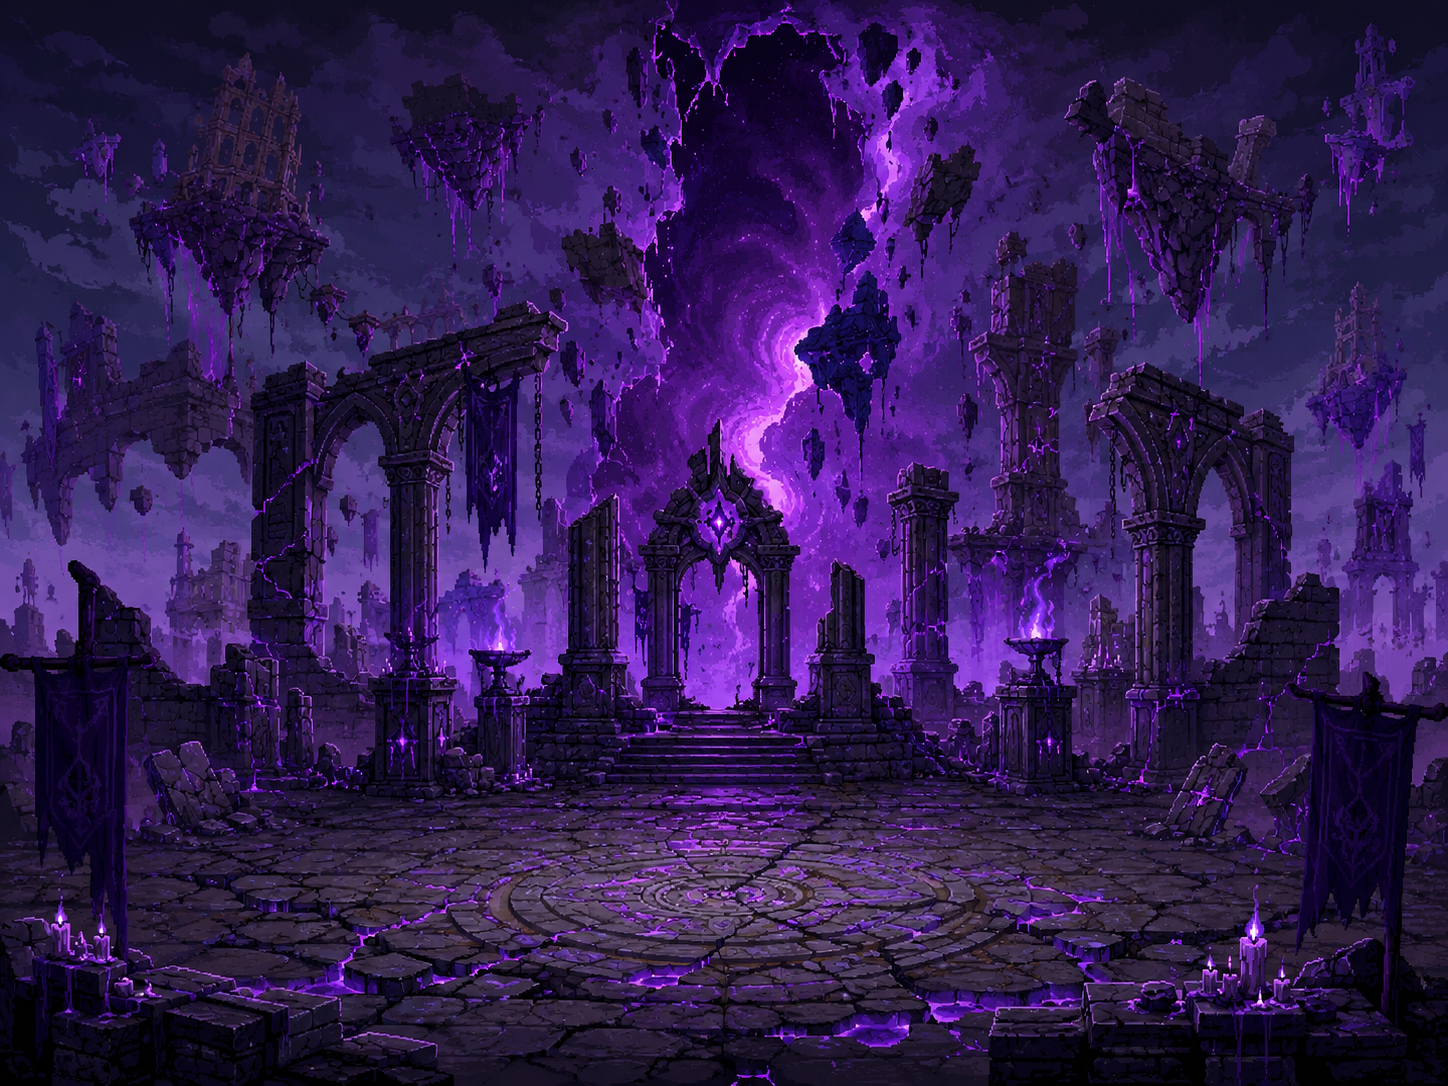
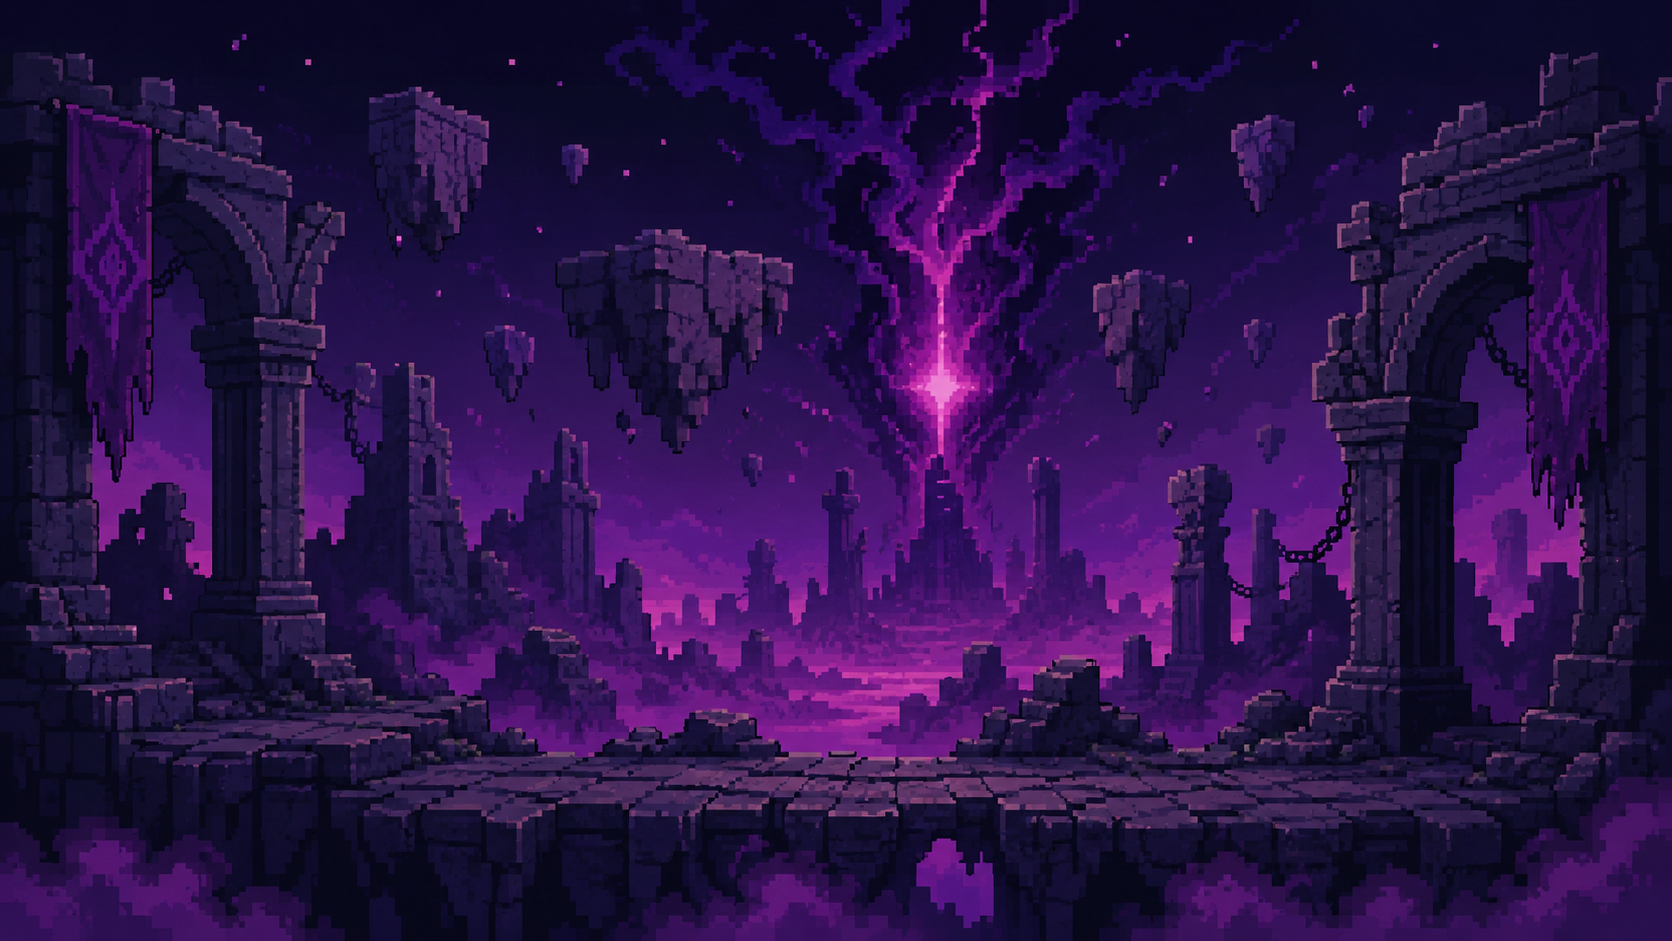
graphics polish

diff --git a/src/game/core/GamePanel.java b/src/game/core/GamePanel.java
@@ -19,11 +19,13 @@ import game.tile.TileManager;
 import game.ui.UI;
 
 import javax.swing.JPanel;
+import javax.imageio.ImageIO;
 import java.awt.Color;
 import java.awt.Dimension;
 import java.awt.Graphics;
 import java.awt.Graphics2D;
 import java.awt.Rectangle;
+import java.awt.image.BufferedImage;
 import java.util.ArrayList;
 import java.util.Random;
 import java.io.*;
@@ -67,6 +69,14 @@ public class GamePanel extends JPanel implements Runnable {
     public StoryManager storyManager = new StoryManager();
     private final String saveFileName = "save.dat";
     private int pendingStoryClassType = 0;
+    private BufferedImage bossArenaImage;
+    private BufferedImage portalSpriteSheet;
+    private BufferedImage[] portalFrames;
+    private int portalFrameIndex = 0;
+    private int portalFrameCounter = 0;
+    private static final int PORTAL_FRAME_COUNT = 8;
+    private static final int PORTAL_FRAME_DELAY = 6;
+    private ArrayList<BossStageDecoration> bossStageDecorations = new ArrayList<>();
 
     public ArrayList<Particle> particleList = new ArrayList<>();
     public Sound music = new Sound();
@@ -101,14 +111,169 @@ public class GamePanel extends JPanel implements Runnable {
         this.setFocusable(true); 
 
         gameState = titleState;
+        loadBossArenaImage();
+        loadPortalImage();
+        loadBossStageDecorations();
         loadBestScore();
 
         playMusic(6);
     }
 
+    private static class BossStageDecoration {
+        BufferedImage image;
+        int worldX;
+        int worldY;
+        int drawWidth;
+        int drawHeight;
+
+        BossStageDecoration(BufferedImage image, int worldX, int worldY, int drawWidth, int drawHeight) {
+            this.image = image;
+            this.worldX = worldX;
+            this.worldY = worldY;
+            this.drawWidth = drawWidth;
+            this.drawHeight = drawHeight;
+        }
+    }
+
     public void startGameThread() {
         gameThread = new Thread(this);
         gameThread.start(); 
+    }
+
+    private void loadBossArenaImage() {
+        try (InputStream is = getClass().getResourceAsStream("/res/boss_stage/boss_arena.png")) {
+            if (is != null) {
+                bossArenaImage = ImageIO.read(is);
+            }
+        } catch (IOException e) {
+            bossArenaImage = null;
+        }
+    }
+
+    private void loadPortalImage() {
+        try (InputStream is = getClass().getResourceAsStream("/res/portal/portal_vortex_8frame.png")) {
+            if (is != null) {
+                portalSpriteSheet = ImageIO.read(is);
+                if (portalSpriteSheet != null) {
+                    slicePortalSpriteSheet();
+                }
+            } else {
+                System.out.println("Warning: could not load portal sprite sheet /res/portal/portal_vortex_8frame.png");
+            }
+        } catch (IOException e) {
+            System.out.println("Warning: could not load portal sprite sheet /res/portal/portal_vortex_8frame.png");
+            portalSpriteSheet = null;
+        }
+
+        if (portalFrames == null || portalFrames.length == 0) {
+            loadPortalFallbackFrames();
+        }
+    }
+
+    private void slicePortalSpriteSheet() {
+        if (portalSpriteSheet.getWidth() % PORTAL_FRAME_COUNT != 0) {
+            System.out.println("Warning: portal sprite sheet width is not divisible by 8");
+        }
+
+        int frameWidth = portalSpriteSheet.getWidth() / PORTAL_FRAME_COUNT;
+        int frameHeight = portalSpriteSheet.getHeight();
+        if (frameWidth <= 0 || frameHeight <= 0) {
+            portalFrames = null;
+            return;
+        }
+
+        portalFrames = new BufferedImage[PORTAL_FRAME_COUNT];
+        for (int i = 0; i < PORTAL_FRAME_COUNT; i++) {
+            portalFrames[i] = portalSpriteSheet.getSubimage(i * frameWidth, 0, frameWidth, frameHeight);
+        }
+        portalFrameIndex = 0;
+        portalFrameCounter = 0;
+    }
+
+    private void loadPortalFallbackFrames() {
+        BufferedImage[] frames = new BufferedImage[PORTAL_FRAME_COUNT];
+
+        for (int i = 0; i < frames.length; i++) {
+            String path = "/res/portal/portal_vortex_frame_" + (i + 1) + ".png";
+            try (InputStream is = getClass().getResourceAsStream(path)) {
+                if (is == null) {
+                    System.out.println("Warning: could not load portal frame " + path);
+                    portalFrames = null;
+                    return;
+                }
+                frames[i] = ImageIO.read(is);
+                if (frames[i] == null) {
+                    System.out.println("Warning: could not read portal frame " + path);
+                    portalFrames = null;
+                    return;
+                }
+            } catch (IOException e) {
+                System.out.println("Warning: could not load portal frame " + path);
+                portalFrames = null;
+                return;
+            }
+        }
+
+        portalFrames = frames;
+        portalFrameIndex = 0;
+        portalFrameCounter = 0;
+    }
+
+    private void loadBossStageDecorations() {
+        bossStageDecorations.clear();
+
+        addBossStageDecoration("12_void_portal_gate.png", 13, 3, 4, 4);
+        addBossStageDecoration("11_ritual_altar_platform.png", 11, 5, 7, 4);
+        addBossStageDecoration("06_hanging_banner.png", 5, 2, 2, 3);
+        addBossStageDecoration("06_hanging_banner.png", 23, 2, 2, 3);
+        addBossStageDecoration("07_chain_fence.png", 9, 3, 3, 1);
+        addBossStageDecoration("07_chain_fence.png", 18, 3, 3, 1);
+        addBossStageDecoration("07_chain_fence.png", 11, 27, 4, 1);
+        addBossStageDecoration("04_purple_crystal_cluster.png", 2, 13, 2, 2);
+        addBossStageDecoration("04_purple_crystal_cluster.png", 26, 14, 2, 2);
+        addBossStageDecoration("05_void_brazier.png", 4, 4, 1, 2);
+        addBossStageDecoration("05_void_brazier.png", 25, 4, 1, 2);
+        addBossStageDecoration("05_void_brazier.png", 5, 25, 1, 2);
+        addBossStageDecoration("05_void_brazier.png", 24, 25, 1, 2);
+        addBossStageDecoration("01_broken_pillar_damaged.png", 3, 6, 2, 3);
+        addBossStageDecoration("02_stone_column.png", 25, 6, 2, 3);
+        addBossStageDecoration("03_broken_pedestal.png", 4, 23, 2, 2);
+        addBossStageDecoration("08_rubble_pile.png", 3, 25, 2, 1);
+        addBossStageDecoration("08_rubble_pile.png", 25, 23, 2, 1);
+        addBossStageDecoration("09_rune_tile.png", 12, 8, 1, 1);
+        addBossStageDecoration("10_void_crack_tile.png", 17, 9, 1, 1);
+        addBossStageDecoration("13_stone_stairs.png", 13, 24, 4, 2);
+        addBossStageDecoration("14_floor_tile_plain.png", 8, 22, 1, 1);
+        addBossStageDecoration("15_floor_tile_cracked.png", 21, 22, 1, 1);
+        addBossStageDecoration("16_floor_tile_gem.png", 15, 10, 1, 1);
+        addBossStageDecoration("17_floor_tile_rough.png", 6, 12, 1, 1);
+        addBossStageDecoration("18_floor_tile_brick.png", 23, 12, 1, 1);
+    }
+
+    private void addBossStageDecoration(String fileName, int tileX, int tileY, int tileW, int tileH) {
+        BufferedImage image = loadBossStageDecorationImage(fileName);
+        if (image == null) return;
+
+        bossStageDecorations.add(new BossStageDecoration(
+                image,
+                tileX * tileSize,
+                tileY * tileSize,
+                tileW * tileSize,
+                tileH * tileSize));
+    }
+
+    private BufferedImage loadBossStageDecorationImage(String fileName) {
+        String path = "/res/boss_stage/decor/" + fileName;
+        try (InputStream is = getClass().getResourceAsStream(path)) {
+            if (is == null) {
+                System.out.println("Warning: could not load boss stage decoration " + path);
+                return null;
+            }
+            return ImageIO.read(is);
+        } catch (IOException e) {
+            System.out.println("Warning: could not load boss stage decoration " + path);
+            return null;
+        }
     }
 
     @Override
@@ -243,6 +408,8 @@ public class GamePanel extends JPanel implements Runnable {
 
             // Enter the portal after all monsters are gone.
             if (monsterList.isEmpty()) {
+                updatePortalAnimation();
+
                 Rectangle doorWorldHitbox = new Rectangle(20 * tileSize, 20 * tileSize, tileSize * 2, tileSize);
                 
                 if (player.getBounds().intersects(doorWorldHitbox)) {
@@ -257,6 +424,24 @@ public class GamePanel extends JPanel implements Runnable {
         }
     }
 
+    private void updatePortalAnimation() {
+        if (portalFrames == null || portalFrames.length == 0) return;
+
+        portalFrameCounter++;
+        if (portalFrameCounter >= PORTAL_FRAME_DELAY) {
+            portalFrameCounter = 0;
+            portalFrameIndex = (portalFrameIndex + 1) % portalFrames.length;
+        }
+    }
+
+    private BufferedImage getCurrentPortalFrame() {
+        if (portalFrames == null || portalFrames.length == 0) return null;
+        if (portalFrameIndex < 0 || portalFrameIndex >= portalFrames.length) {
+            portalFrameIndex = 0;
+        }
+        return portalFrames[portalFrameIndex];
+    }
+
     @Override
     public void paintComponent(Graphics g) {
         super.paintComponent(g);
@@ -267,7 +452,14 @@ public class GamePanel extends JPanel implements Runnable {
         } else if (gameState == storyState) {
             ui.drawStoryScreen(g2);
         } else {
-            tileM.draw(g2); 
+            if (currentLevel == 10 && bossArenaImage != null) {
+                drawBossArenaBackground(g2);
+            } else {
+                tileM.draw(g2);
+            }
+            if (currentLevel == 10) {
+                drawBossStageDecorations(g2);
+            }
             
            // Portal appears after the room is cleared.
         if (monsterList.isEmpty()) {
@@ -277,12 +469,23 @@ public class GamePanel extends JPanel implements Runnable {
             int doorScreenX = doorWorldX - player.x + player.screenX;
             int doorScreenY = doorWorldY - player.y + player.screenY;
 
-            g2.setColor(Color.CYAN); 
-            g2.fillRect(doorScreenX, doorScreenY, tileSize * 2, tileSize);
-            
-            g2.setColor(Color.WHITE);
-            String msg = (currentLevel < 10) ? "PORTAL" : "VICTORY";
-            g2.drawString(msg, doorScreenX, doorScreenY - 10);
+            BufferedImage portalFrame = getCurrentPortalFrame();
+            if (portalFrame != null) {
+                int portalDrawWidth = tileSize * 2;
+                int portalDrawHeight = tileSize * 2;
+                int portalDrawWorldX = 20 * tileSize;
+                int portalDrawWorldY = 20 * tileSize - tileSize;
+                int portalScreenX = portalDrawWorldX - player.x + player.screenX;
+                int portalScreenY = portalDrawWorldY - player.y + player.screenY;
+                g2.drawImage(portalFrame, portalScreenX, portalScreenY, portalDrawWidth, portalDrawHeight, null);
+            } else {
+                g2.setColor(Color.CYAN);
+                g2.fillRect(doorScreenX, doorScreenY, tileSize * 2, tileSize);
+
+                g2.setColor(Color.WHITE);
+                String msg = (currentLevel < 10) ? "PORTAL" : "VICTORY";
+                g2.drawString(msg, doorScreenX, doorScreenY - 10);
+            }
         }
 
             for (int i = 0; i < itemList.size(); i++) {
@@ -339,6 +542,29 @@ public class GamePanel extends JPanel implements Runnable {
     
         g2.dispose(); 
     }
+
+    private void drawBossArenaBackground(Graphics2D g2) {
+        int worldScreenX = -player.x + player.screenX;
+        int worldScreenY = -player.y + player.screenY;
+        g2.drawImage(bossArenaImage, worldScreenX, worldScreenY,
+                maxWorldCol * tileSize, maxWorldRow * tileSize, null);
+    }
+
+    private void drawBossStageDecorations(Graphics2D g2) {
+        for (int i = 0; i < bossStageDecorations.size(); i++) {
+            BossStageDecoration decoration = bossStageDecorations.get(i);
+            drawWorldDecoration(g2, decoration.image, decoration.worldX, decoration.worldY,
+                    decoration.drawWidth, decoration.drawHeight);
+        }
+    }
+
+    private void drawWorldDecoration(Graphics2D g2, BufferedImage image, int worldX, int worldY,
+                                     int drawWidth, int drawHeight) {
+        int screenX = worldX - player.x + player.screenX;
+        int screenY = worldY - player.y + player.screenY;
+        g2.drawImage(image, screenX, screenY, drawWidth, drawHeight, null);
+    }
+
     public void spawnMonsters(int level) {
         // Level 10 only spawns the final boss.
         if (level == 10) {
@@ -576,7 +802,7 @@ public class GamePanel extends JPanel implements Runnable {
 
     private void startRunAfterIntro() {
         gameState = playState;
-        currentLevel = 10;
+        currentLevel = 1;
         player.setDefaultValues();
         particleList.clear();
         player.setupClass(pendingStoryClassType);
@@ -787,8 +1013,13 @@ public class GamePanel extends JPanel implements Runnable {
 
         // No auto-heal between levels; hearts are the healing source.
 
-        player.x = tileSize * 15; 
-        player.y = tileSize * 15;
+        if (level == 10) {
+            player.x = (maxWorldCol / 2) * tileSize;
+            player.y = (maxWorldRow - 4) * tileSize;
+        } else {
+            player.x = tileSize * 15;
+            player.y = tileSize * 15;
+        }
         player.isMeleeAttacking = false; 
         player.invincible = true;
         player.invincibleCounter = 0;

diff --git a/src/game/tile/TileManager.java b/src/game/tile/TileManager.java
@@ -52,6 +52,20 @@ public class TileManager {
         }
     }
 
+    public boolean isCollisionTile(int tileId) {
+        if (tileId < 0 || tileId >= tile.length) {
+            return true;
+        }
+        if (tile[tileId] == null) {
+            return true;
+        }
+        return tile[tileId].collision;
+    }
+
+    public boolean isWalkableTile(int tileId) {
+        return isCollisionTile(tileId) == false;
+    }
+
     // Load the map for this level.
     public void loadMap(int level) {
         try {
@@ -112,7 +126,7 @@ public class TileManager {
                 worldY + gp.tileSize > gp.player.y - gp.player.screenY &&
                 worldY - gp.tileSize < gp.player.y + gp.player.screenY) {
                 
-                if (tile[tileNum] != null) {
+                if (tileNum >= 0 && tileNum < tile.length && tile[tileNum] != null) {
                     if (tile[tileNum].image != null) {
                         g2.drawImage(tile[tileNum].image, screenX, screenY, gp.tileSize, gp.tileSize, null);
                     } else {

diff --git a/src/game/core/CollisionChecker.java b/src/game/core/CollisionChecker.java
@@ -38,7 +38,8 @@ public class CollisionChecker {
         int tileNum3 = gp.tileM.mapTileNum[entityLeftCol][entityBottomRow]; 
         int tileNum4 = gp.tileM.mapTileNum[entityRightCol][entityBottomRow];
 
-        if (tileNum1 == 1 || tileNum2 == 1 || tileNum3 == 1 || tileNum4 == 1) {
+        if (gp.tileM.isCollisionTile(tileNum1) || gp.tileM.isCollisionTile(tileNum2) ||
+            gp.tileM.isCollisionTile(tileNum3) || gp.tileM.isCollisionTile(tileNum4)) {
             entity.collisionOn = true;
         }
     }
